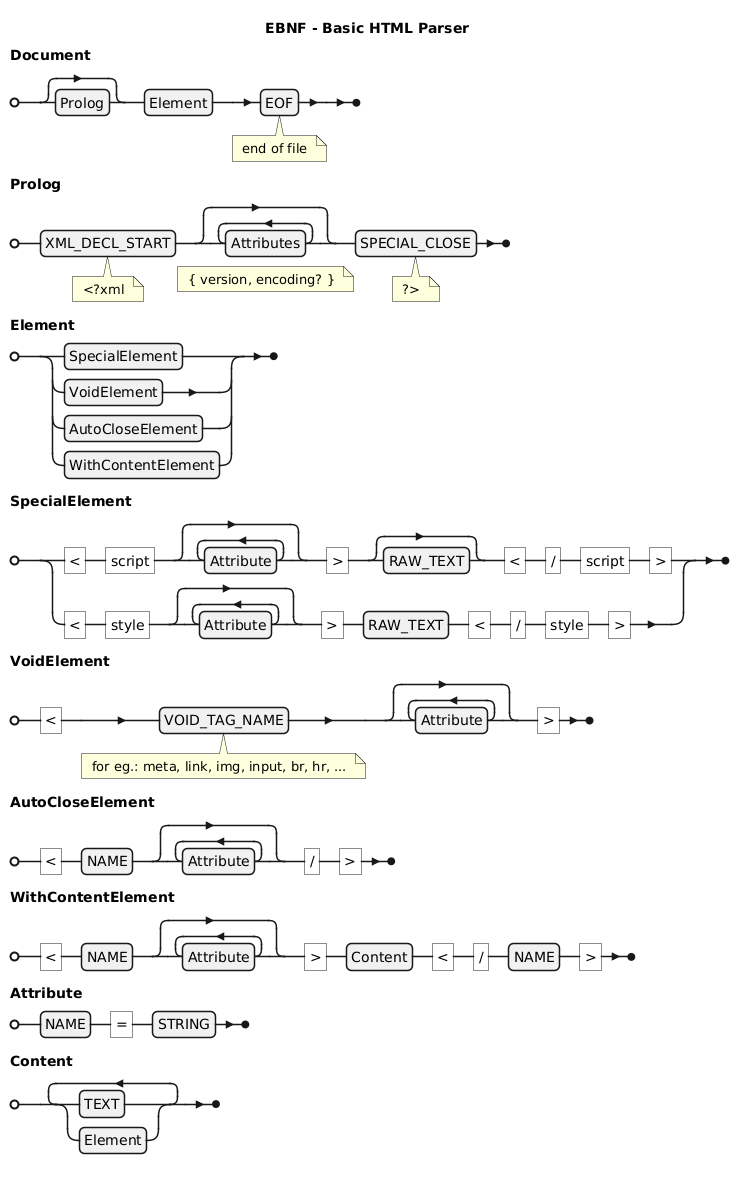
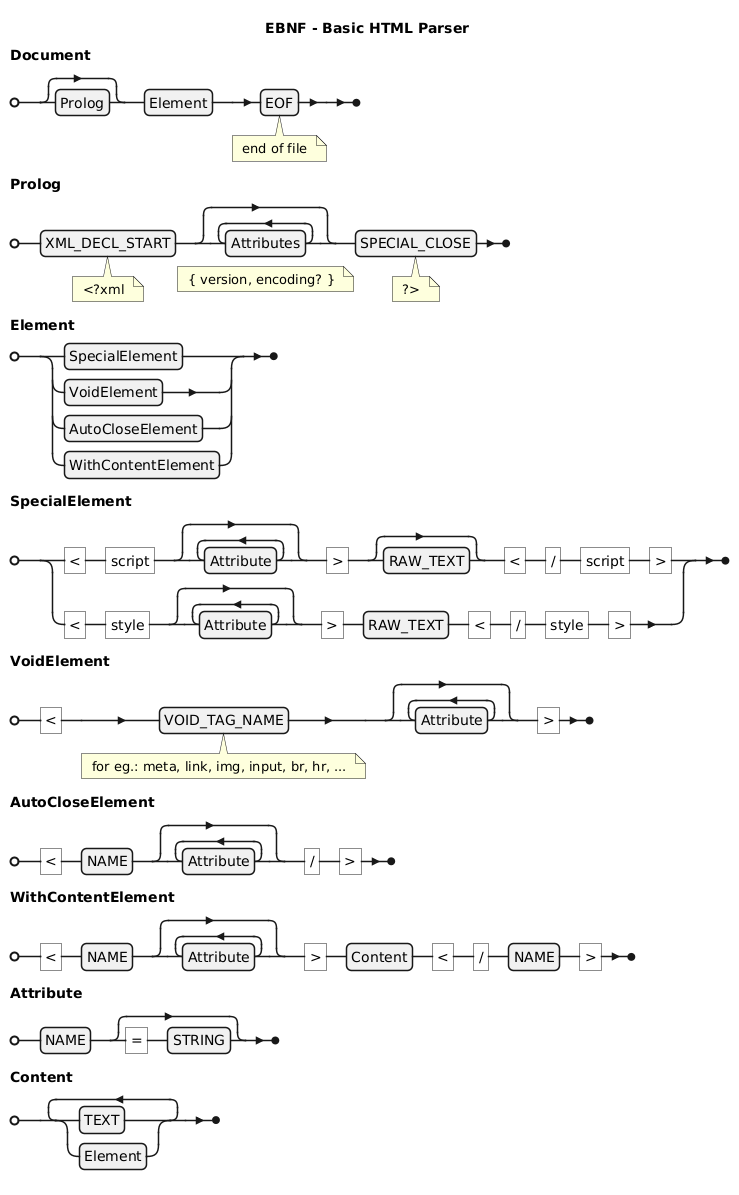
update( ts-parser-xml): docs

Changed region(s): [[0.0, 0.0305, 0.9959, 0.9771], [0.5913, 0.0, 0.6225, 0.0305], [0.4357, 0.0, 0.4668, 0.0305]]

diff --git a/implementations/ts-parser-xml/src/parser/AST.ts b/implementations/ts-parser-xml/src/parser/AST.ts
@@ -49,7 +49,7 @@ export interface INodeRawText extends INodeValue {
 
 export interface IElementAttriute {
   name: string;
-  value: string;
+  value?: string;
 }
 
 export interface INodeElementBase extends INodeBase {
